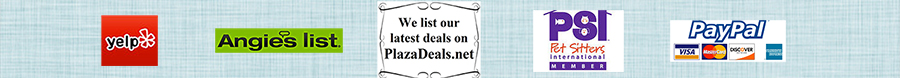
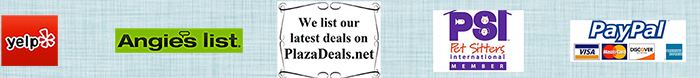
adjusting footer

diff --git a/project/css/style.css b/project/css/style.css
@@ -34,6 +34,7 @@ header p{
 	padding: 10px;
 	border: 2px solid #111;
 }
+
 header img{
 	float: left;
 	
@@ -44,7 +45,7 @@ header img{
 
 nav ul{
 	text-decoration: none;
-	width: 700px;
+	max-width: 700px;
 	float: right;
 	margin: 5px;
 	padding-right: 40px;
@@ -95,19 +96,19 @@ nav ul{
 /*=========END===========*/
 /*=============INDEX==============*/
  html{
-		background-color: #cc9966;
-	 width: 1500px;
+	background-color: #cc9966;
+	 max-width: 1000px;
 
 	}
 
  .wrapper{
-		margin-left:120px;
-		max-width: 900px;
+		margin-left:50px;
+		max-width: 90%;
 		background-image: url(../images/linen_bg.jpg);
 		
 	}
 	#list{
-		background-image: url(../images/linen_bg.jpg);
+		/*background-image: url(../images/linen_bg.jpg);*/
 		width: 800px;
 		margin-right: 30px;
 		text-align: center;
@@ -145,11 +146,14 @@ nav ul{
 	text-align: right;
 	
 	}
+	img{
+		max-width: 100%;
+	}
 
 
  /*============END==========*/
  /*============ABOUTUS=============*/
-#about{
+	#about{
 		max-width: 700px;
 		background-image: url(../images/linen_bg.jpg);
 		text-align: left;
@@ -288,6 +292,12 @@ span{
  /*===============END===============*/
 
 /*==================FOOTER=================*/
+
+#footerimg{
+max-width: 100%;
+
+}
+
 
 footer{
 	border: 2px solid #111;

diff --git a/project/index.html b/project/index.html
@@ -37,7 +37,9 @@
 	</ul>
 	</div>
    </body>
+   <div id="footerimg">
 <img src="images/findmeimages.jpg" alt="footer image"/>
+</div>
 <footer>
 <p>Copyright 2013 | All Rights Reserved | Design By Free</p>
 </footer>
